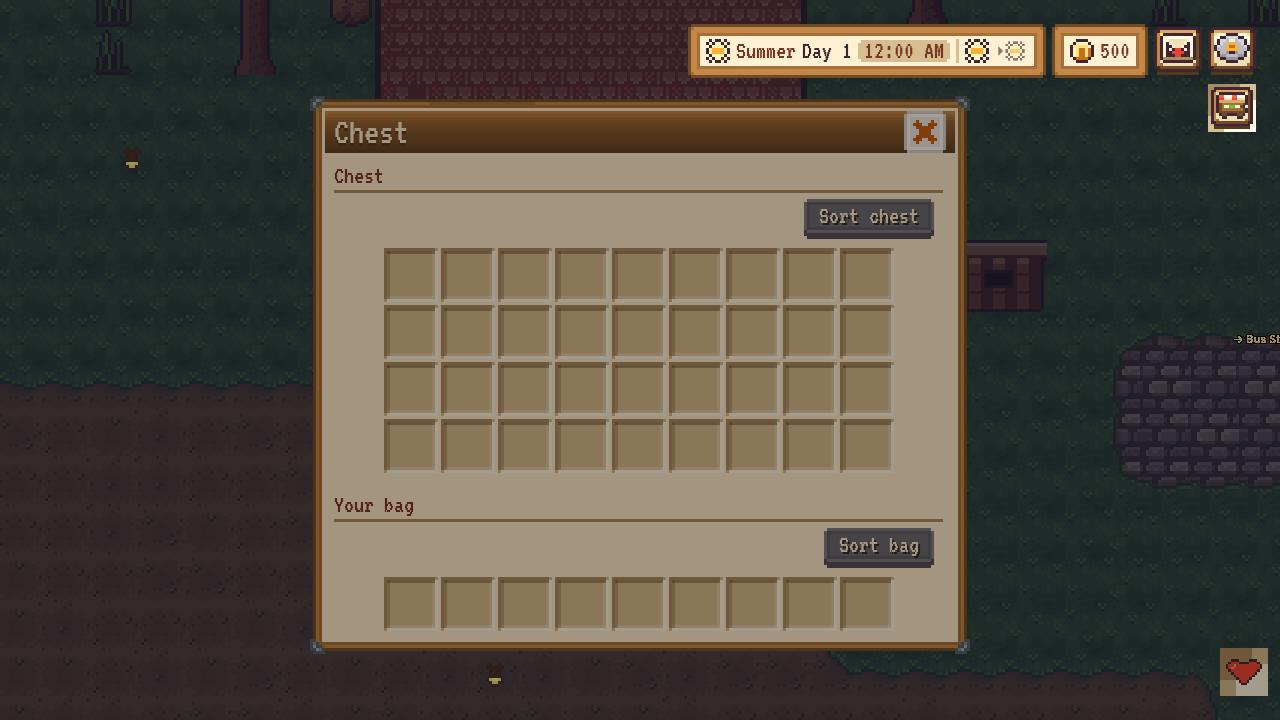
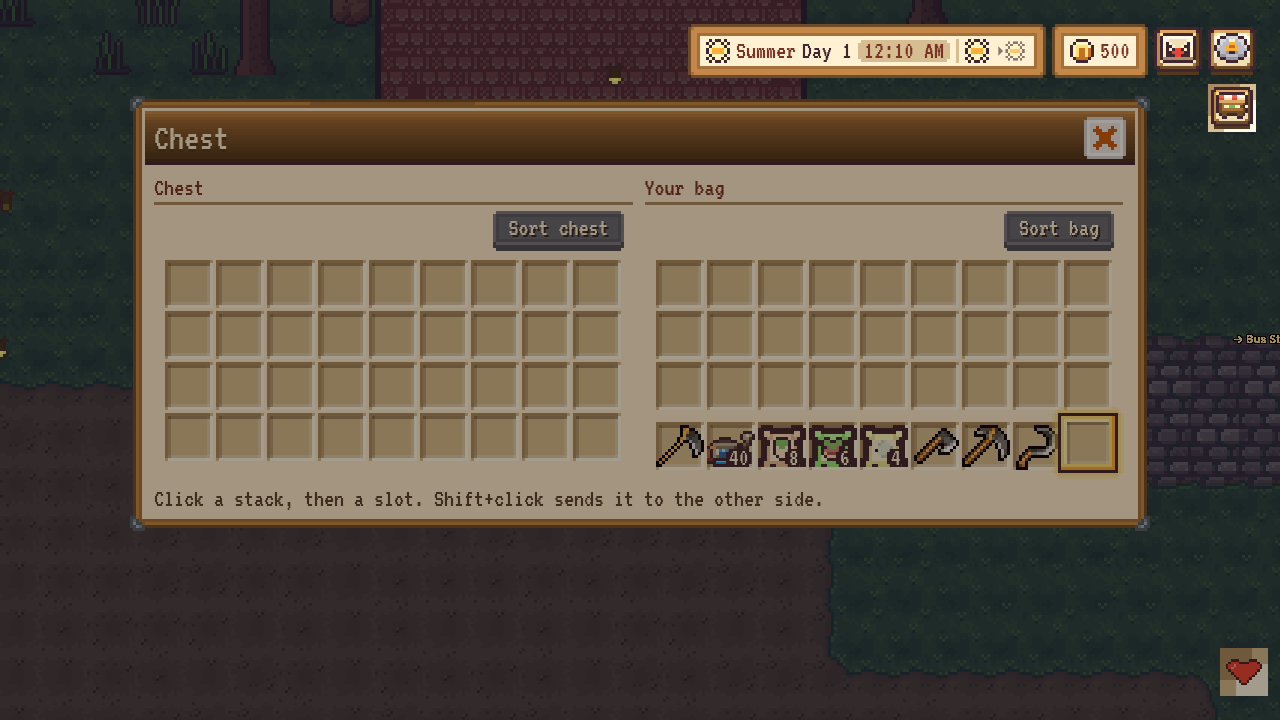
feat(wasm): XL panel width for the chest, arrange-mode close and Escape
- The standard (docs/design/ui-standard.md) gains XL = 340 u, only for a
  panel with two grids side by side; it stacks on a phone (640 px and under).
- The chest and the bag sit side by side in an XL panel, 16 u slots, each
  with its sort button on top; they stack below 640 px.
- The decorating window's close button and Escape leave arrange mode. A
  carried piece goes back where it was (PlacementRequests.Cancel). The
  window stays closed until the player picks a piece or holds another item.
- Recaptured the chest and decorating screens at all three sizes.

diff --git a/wasm/Nosum.Wasm.Controls/Chest/ChestPanel.razor.css b/wasm/Nosum.Wasm.Controls/Chest/ChestPanel.razor.css
@@ -15,3 +15,24 @@
     margin: 0;
     color: var(--nosum-ink-soft);
 }
+
+/* The chest and the bag side by side, each with its sort button on top; the slots are 16 u so two nine-column grids fit the XL panel (340 u).
+   A phone stacks them (GameMenuWindow sizes the panel). */
+.chest-split {
+    --item-grid-slot: calc(var(--u) * 16);
+    display: grid;
+    grid-template-columns: minmax(0, 1fr) minmax(0, 1fr);
+    gap: var(--nosum-gap-group);
+    align-items: start;
+}
+
+.chest-split ::deep .slot {
+    width: calc(var(--u) * 16);
+    height: calc(var(--u) * 16);
+}
+
+@media (max-width: 640px) {
+    .chest-split {
+        grid-template-columns: minmax(0, 1fr);
+    }
+}

diff --git a/wasm/Nosum.Wasm.Controls/Common/TradeDialog.razor.css b/wasm/Nosum.Wasm.Controls/Common/TradeDialog.razor.css
@@ -15,6 +15,10 @@
     width: calc(var(--u) * 220);
 }
 
+.trade-dialog-xl {
+    width: calc(var(--u) * 340);
+}
+
 .trade-dialog ::deep .trade-window {
     width: 100%;
     height: auto;
@@ -33,7 +37,8 @@
 @media (max-width: 640px) {
     .trade-dialog,
     .trade-dialog-s,
-    .trade-dialog-l {
+    .trade-dialog-l,
+    .trade-dialog-xl {
         width: 100%;
     }
 

diff --git a/wasm/Nosum.Wasm/Game/PlacementActions.cs b/wasm/Nosum.Wasm/Game/PlacementActions.cs
@@ -34,6 +34,7 @@ internal sealed class PlacementActions
     private readonly HashSet<(int X, int Y)> _noReserved = [];
     private double _lastActionSeconds = double.NegativeInfinity;
     private int _rotation;
+    private int _lastHeldItemId;
 
     /// <summary>Initializes the actions.</summary>
     /// <param name="placed">Sends the requests.</param>
@@ -89,8 +90,16 @@ internal sealed class PlacementActions
     /// <param name="content">Optional loaded map content used to check building rules and reserved spawn/warp tiles.</param>
     public void Update(bool active, InputEdges edges, int targetX, int targetY, Facing facing, PlacedSet placedSet, WalkGrid mapGrid, double feetX, double feetY, double nowSeconds, bool alwaysShowPanel = true, MapContent? content = null)
     {
-        _view.SetActive(active && (alwaysShowPanel || this.CarryingId != 0 || PlaceableCatalog.TryGet(_inventory.SlotAt(_inventory.SelectedSlot).ItemId, out _)));
-        if (!active)
+        // Another held item shows the panel again after it was closed (PlacementViewModel.Dismiss).
+        int heldNow = _inventory.SlotAt(_inventory.SelectedSlot).ItemId;
+        if (heldNow != _lastHeldItemId)
+        {
+            _lastHeldItemId = heldNow;
+            _view.ClearDismissed();
+        }
+
+        _view.SetActive(active && (alwaysShowPanel || this.CarryingId != 0 || PlaceableCatalog.TryGet(heldNow, out _)));
+        if (!active || _view.Dismissed)
         {
             this.CarryingId = 0;
             _view.SetCarrying(0);
@@ -100,6 +109,12 @@ internal sealed class PlacementActions
         }
 
         PlacementRequests requests = _view.TakeRequests();
+        if ((requests & PlacementRequests.Cancel) != 0 && this.CarryingId != 0)
+        {
+            this.CarryingId = 0;
+            _view.SetCarrying(0);
+        }
+
         bool rotate = (edges & InputEdges.Rotate) != 0 || (requests & PlacementRequests.Rotate) != 0;
         bool grab = (edges & InputEdges.Grab) != 0 || (requests & PlacementRequests.Grab) != 0;
         bool pickUp = (edges & InputEdges.PickUp) != 0 || (requests & PlacementRequests.PickUp) != 0;

diff --git a/wasm/Nosum.Wasm.ViewModels/Placement/PlacementViewModel.cs b/wasm/Nosum.Wasm.ViewModels/Placement/PlacementViewModel.cs
@@ -23,6 +23,9 @@ public enum PlacementRequests
 
     /// <summary>Take the piece in front back into the inventory.</summary>
     PickUp = 4,
+
+    /// <summary>Puts a carried piece back where it was (the panel's close button and Escape); nothing when no piece is carried.</summary>
+    Cancel = 8,
 }
 
 /// <summary>
@@ -91,10 +94,30 @@ public sealed class PlacementViewModel : IObservableViewModel
     /// <returns>The requests, or <see cref="PlacementRequests.None"/>.</returns>
     public PlacementRequests TakeRequests() => (PlacementRequests)Interlocked.Exchange(ref _requests, 0);
 
+    /// <summary>Whether the player closed the arrange panel with its close button or Escape (<see cref="Dismiss"/>); cleared by <see cref="ClearDismissed"/>.</summary>
+    public bool Dismissed { get; private set; }
+
+    /// <summary>Closes arrange mode from the panel: the carried piece goes back where it was, and the panel stays closed until the player picks a
+    /// piece again or holds another item (<see cref="ClearDismissed"/>).</summary>
+    public void Dismiss()
+    {
+        this.Dismissed = true;
+        this.Request(PlacementRequests.Cancel);
+        if (_active)
+        {
+            _active = false;
+            this.Changed?.Invoke();
+        }
+    }
+
+    /// <summary>Lets the arrange panel show again: the player picked a piece or held another item.</summary>
+    public void ClearDismissed() => this.Dismissed = false;
+
     /// <summary>Shows or hides the panel; the game loop calls it when the map changes.</summary>
     /// <param name="active">Whether the player is in a place where furniture can be placed.</param>
     public void SetActive(bool active)
     {
+        active &= !this.Dismissed;
         if (_active != active)
         {
             _active = active;

diff --git a/wasm/Nosum.Wasm.ViewModels/Placement/FurnitureCatalogViewModel.cs b/wasm/Nosum.Wasm.ViewModels/Placement/FurnitureCatalogViewModel.cs
@@ -230,6 +230,7 @@ public sealed class FurnitureCatalogViewModel : IObservableViewModel, IDisposabl
         }
 
         _selectedItemId = itemId;
+        _placement.ClearDismissed();
         int hotbar = Math.Min(InventoryLimits.HotbarSlots, _inventory.Capacity);
         int held = FindSlot(0, hotbar, itemId);
         if (held < 0)
@@ -256,6 +257,12 @@ public sealed class FurnitureCatalogViewModel : IObservableViewModel, IDisposabl
 
     /// <summary>Asks the game to take the piece in front of the farmer back into the inventory.</summary>
     public void PickUp() => _placement.Request(PlacementRequests.PickUp);
+
+    /// <summary>Closes arrange mode from the panel's close button or Escape: a carried piece goes back where it was.</summary>
+    public void Exit() => _placement.Dismiss();
+
+    /// <summary>The localized text of the close button.</summary>
+    public string CloseLabel => _text["Panel_Close"];
 
     /// <inheritdoc/>
     public void Dispose()

diff --git a/wasm/Nosum.Wasm.Controls/Common/PanelSize.cs b/wasm/Nosum.Wasm.Controls/Common/PanelSize.cs
@@ -13,4 +13,7 @@ public enum PanelSize
 
     /// <summary>220 u: a wide window (the inventory with its side column, a shop or a market with a detail strip).</summary>
     L,
+
+    /// <summary>340 u: a window with two grids side by side (the chest and the bag). Only for those panels, and stacked on a phone.</summary>
+    XL,
 }

diff --git a/docs/design/ui-standard.md b/docs/design/ui-standard.md
@@ -48,7 +48,7 @@ Every panel is a `GamePanel` opened in the center region:
 
 - One frame (`assets/ui/menu.png` 9-slice), one title bar with the title at `--nosum-fs-title` on the left and the close button on the
   right. No panel draws its own frame, title or close button.
-- Width is one of three sizes: **S** = 100 `--u`, **M** = 160 `--u`, **L** = 220 `--u` (clamped to the viewport minus the edge margin).
+- Width is one of four sizes: **S** = 100 `--u`, **M** = 160 `--u`, **L** = 220 `--u`, and **XL** = 340 `--u` (clamped to the viewport minus the edge margin). XL is only for a panel with two grids side by side (the chest with the bag); such a panel stacks its two grids on a phone (640 px wide and under).
   Height fits the content; the panel body scrolls only when the viewport is shorter than the content (phones), never on desktop sizes
   for the content the panel normally shows (a full bag, a recipe list of one page).
 - Inner layout uses `GameStack`/`GameRow`/`GameSection` with `--nosum-gap` / `--nosum-gap-group`. A detail strip (selected item, recipe
@@ -93,7 +93,7 @@ before and after. It is merged only if every answer is yes:
 2. Nothing overlaps: HUD regions, panels, toasts, hotbar, touch controls.
 3. The menu column has one column and at most 8 buttons; all buttons are the same size and frame.
 4. Edges line up: cards in one region share left/right edges; the top-right row and the minimap card share their right edge.
-5. Panels use `GamePanel` with one of the S/M/L widths and the shared title bar and close button.
+5. Panels use `GamePanel` with one of the S/M/L/XL widths and the shared title bar and close button.
 6. Only the three font sizes are used; no text wraps word by word; nothing is clipped or cut off.
 7. No inner scrollbar at 1280×720 and above for normal content.
 8. Item icons are whole and centered.
